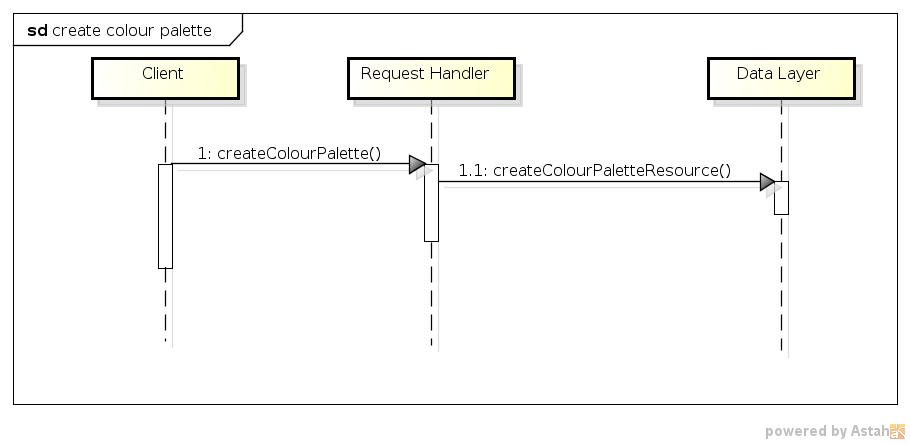
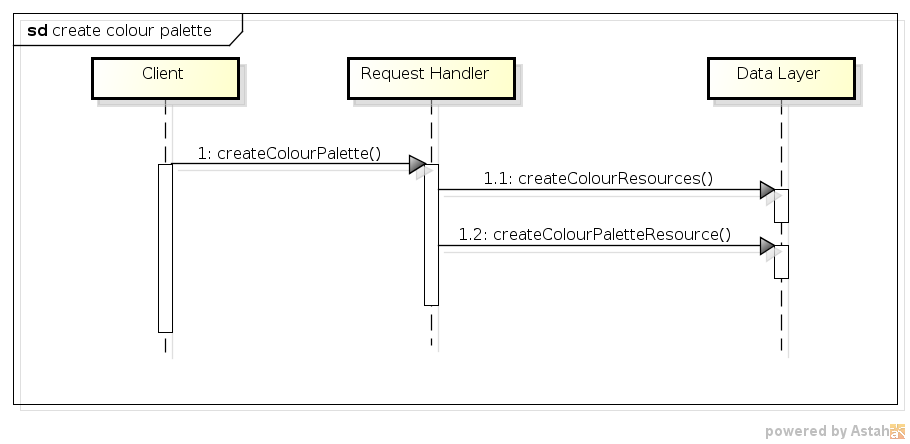
Added some more sequence diagrams and used all of them in the documentation

diff --git a/Phase2_ColourConnection/doc_log/doc.md b/Phase2_ColourConnection/doc_log/doc.md
@@ -38,10 +38,18 @@ BenutzerIn A bemerkt, dass das die Platform noch über sehr wenige Farbeinträge
 Dazu gibt er/sie zu einer Farbe dessen Farbcode ein oder wählt sie über einen Farbwähler aus. Mit dem Absenden des Fabcodes wird auf der Platform ein eindeutiger Eintrag für diese Farbe erzeugt.
 Der Eintrag wird mit dem Namen des Erzeugers verknüpft.
 
+**Sequenz-Diagramm**
+![Create colour](images/create_colour.png)
+
+
 ###<a name="szenarien_lieblingsfarbe_festlegen"></a>2.2 Farbe als Lieblingsfarbe festlegen
 BenutzerIn A möchte gerne eine Farbe als eine Lieblingsfarbe angeben. Dazu gibt er/sie den Farbcode der Farbe an oder wählt sie über einen Farbwähler aus.
 Da die Farbe noch nicht bekannt ist und nicht bekannte Farben nicht als Lieblingsfarbe gesetzt werden können, wird für sie vorher ein neuer eindeutiger Eintrag erzeugt und mit dem Namen des Erzeugers verknüpft.
 Erst jetzt kann die Farbe als Lieblingsfarbe des/der Benutzers/in gesetzt werden.
+
+**Sequenz-Diagramm**
+![Set colour as favourite](images/set_colour_as_favourite.png)
+
 
 ###<a name="szenarien_farbpalette_erstellen"></a>2.3 Farbpalette erstellen
 BenutzerIn B möchte eine neue Farbpalette erstellen und legt mindestens 3 Farben fest, da es die Mindestanzahl der Farben einer Farbpalette entspricht.
@@ -50,21 +58,44 @@ Wenn zu einer der verwendeten Farben noch kein Eintrag existiert, wird dieser au
 Die Platform überprüft, gleichzeitig zum Erstellen der Farbpalette, ob eine der Farben die Lieblingsfarbe mehrerer BenutzerInnen ist und informiert diese über die soeben erzeugte Farbpalette, die deren Lieblingsfarbe verwendet.
 In diesem Fall ergab die Überprüfung der verwendeten Faben, dass eine der Farben gleichzeitig die Lieblingsfarbe von BenutzerIn A ist. BenutzerIn A erhält eine Meldung bezüglich der neuen Farbpalette.
 
+**Sequenz-Diagramm**
+![Create colour palette](images/create_colour_palette.png)
+
+
 ###<a name="szenarien_lieblingsfarbpalette_festlegen"></a>2.4 Farbpalette als Lieblingspalette festlegen
 BenutzerIn A gefällt eine Farbpalette so sehr, dass er/sie zu seinen/ihren Favoriten bzw. Lieblingspaletten hinzufügt.
+
+**Sequenz-Diagramm**
+![Set colour palette as favourite](images/set_colour_palette_as_favourite.png)
+
 
 ###<a name="szenarien_farbe_farbpalette_kommentieren"></a>2.5 Farbe oder Farbpalette kommentieren
 BenutzerIn A ist von einer Farbpalette von BenutzerIn B so begeistert, dass er/sie ein Kommentar zu dieser verfasst und hinzufügt.
 
+**Sequenz-Diagramm**
+![Create comment for colour/palette](images/create_comment_for_colour_colourpalette.png)
+
+
 ###<a name="szenarien_lieblingsfarben_eines_benutzers_anzeigen"></a>2.6 Lieblingsfarben eines Benutzers anzeigen
 BenutzerIn B lässt sich alle Lieblingsfarben von BenutzerIn A anzeigen.
+
+**Sequenz-Diagramm**
+![Get favourite colours](images/get_favourite_colours.png)
+
 
 ###<a name="szenarien_erzeugten_farbpaletten_eines_benutzers_anzeigen"></a>2.7. Erzeugten Farbpaletten eines Benutzers anzeigen
 BenutzerIn A vermutet, dass BenutzerIn B neben einer ihrer Lieblingspaletten auch weitere schöne Farbpaletten erzeugt hat. Deshalb lässt sie sich alle von BenutzerIn B erzeugten Farbpaletten anzeigen.
 
+**Sequenz-Diagramm**
+![Get created palettes](images/get_created_palettes.png)
+
+
 ###<a name="szenarien_anderen_benutzer_abonnieren"></a>2.8. Anderen Benutzer abonnieren
 Benutzer A ist von den von BenutzerIn B erzeugeten Paletten so sehr begeistert, dass sie auch in Zukunft über Farbpaletten von BenutzerIn B benachrichtig werden will.
 Deshalb abonniert sie alle Erzeugnisse von BenutzerIn B. 
+
+**Sequenz-Diagramm**
+![Set user as follower](images/set_user_as_follower.png)
 
 
 <a href="#top">^ top</a>
